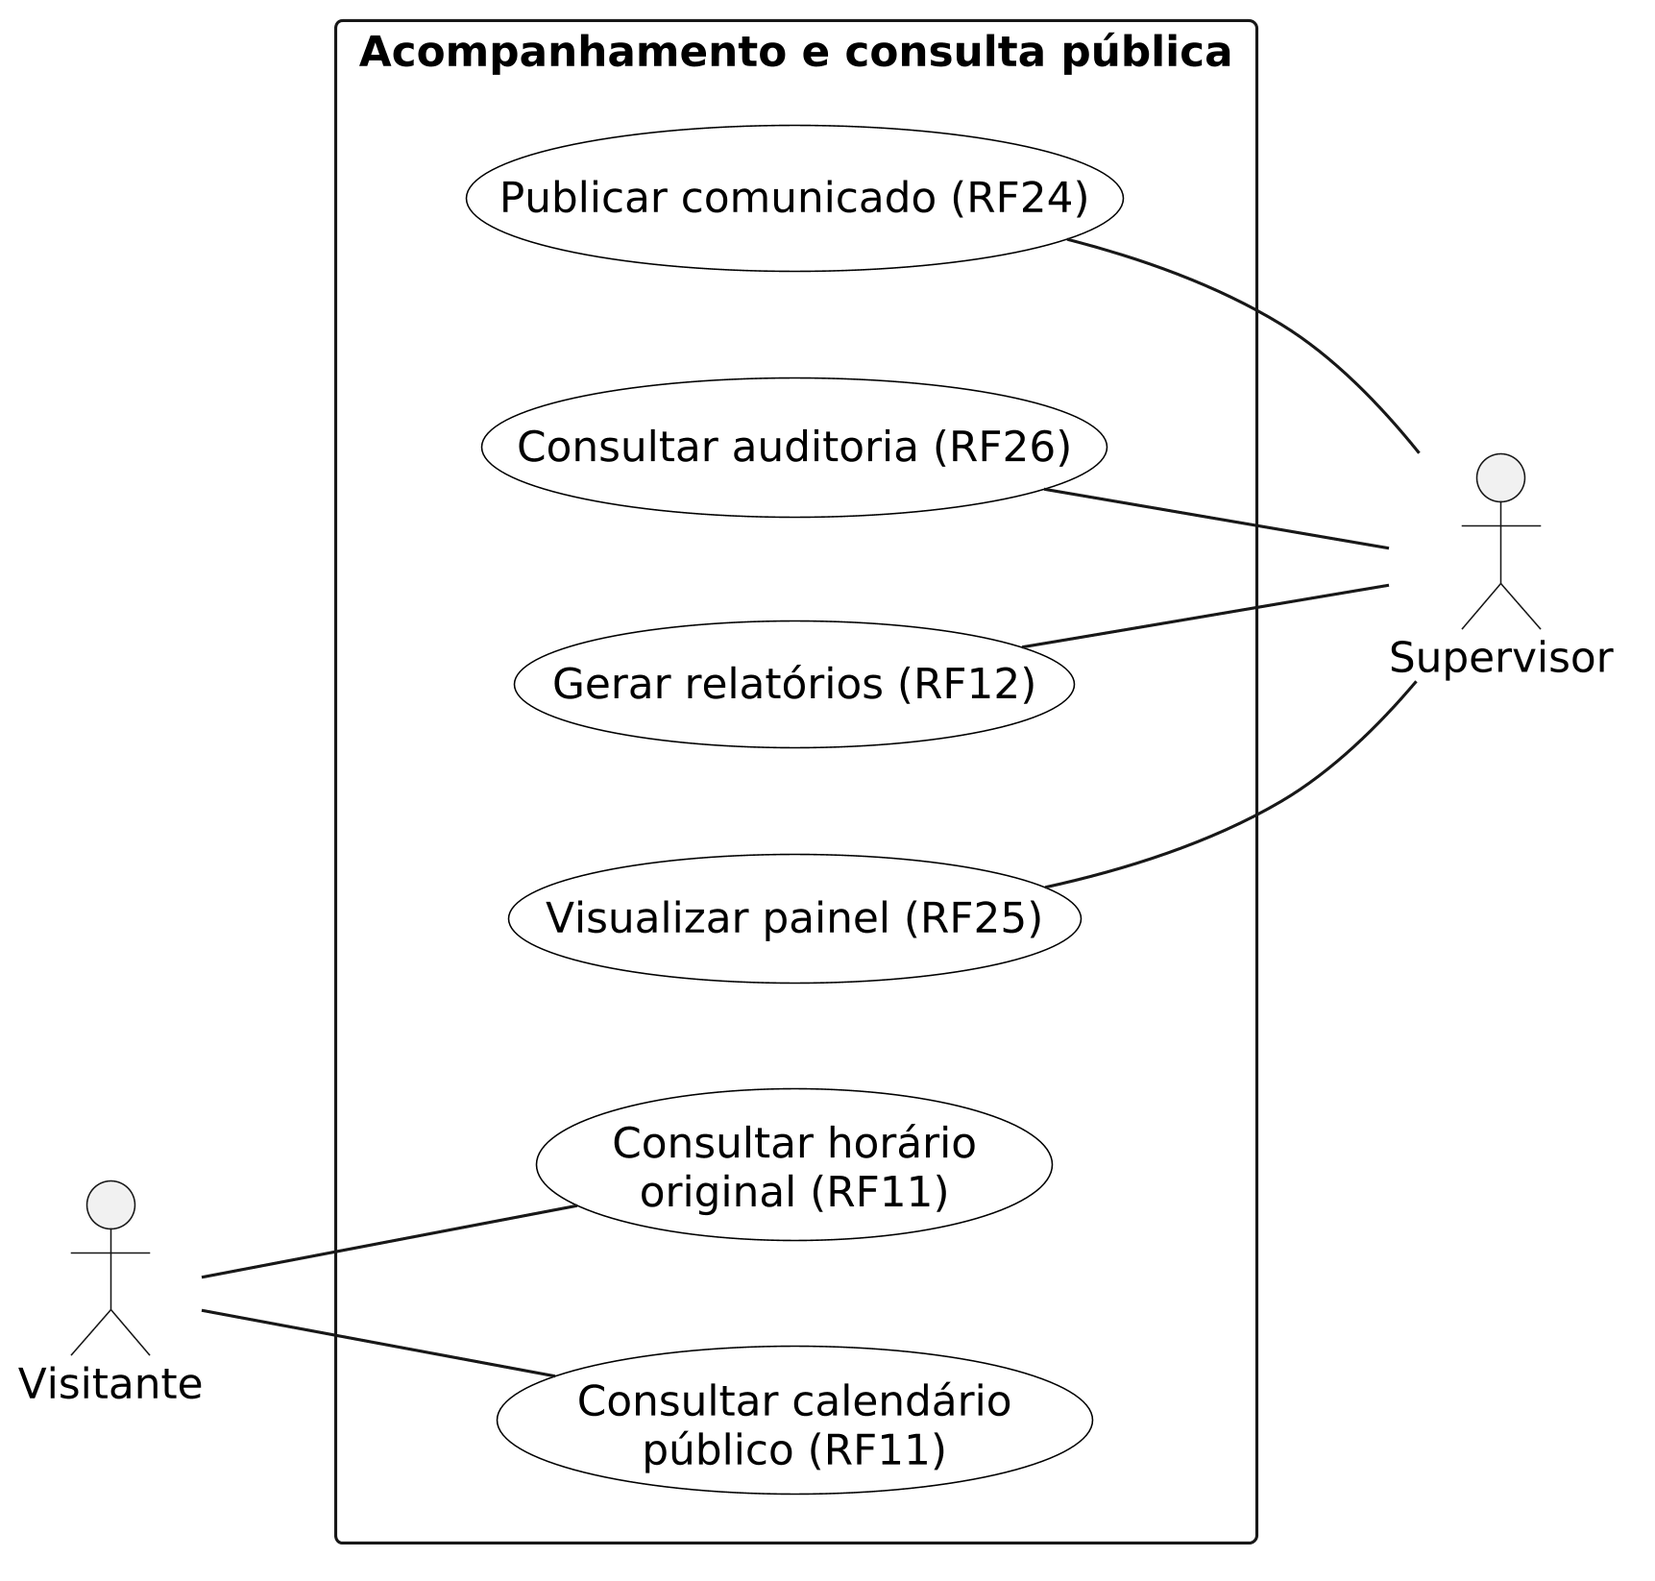
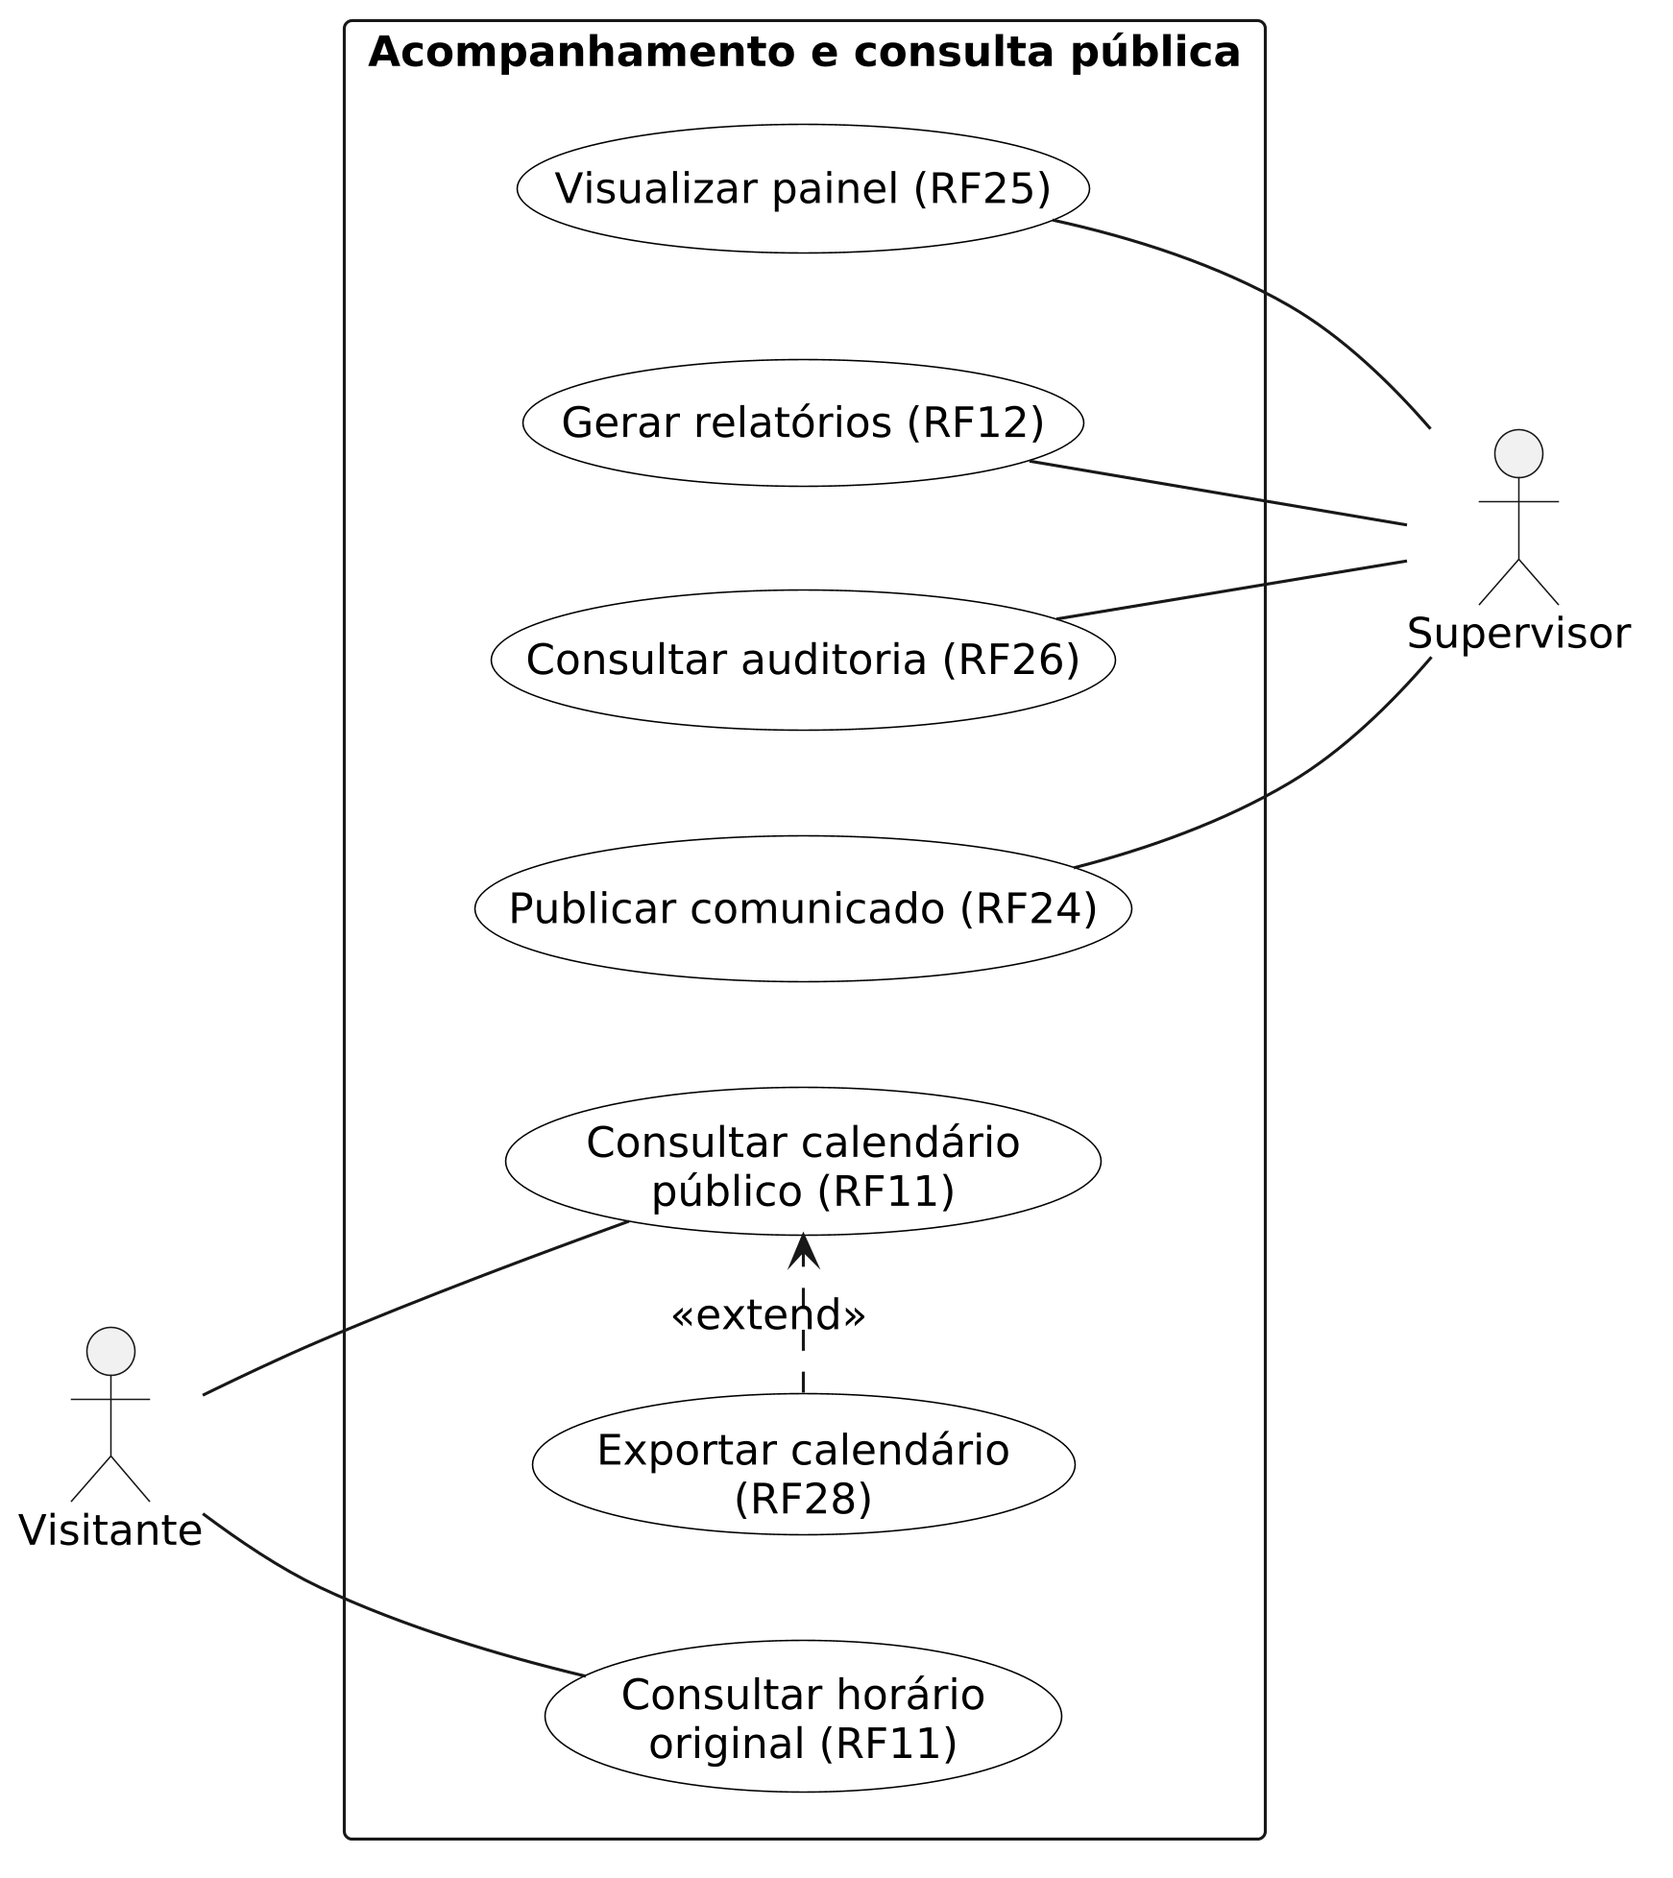
docs: documenta a exportacao do calendario publico
- acrescenta o RF28 e o caso de uso Exportar calendario, que estende
  Consultar calendario publico
- descreve o caso de uso no Apendice A e inclui o RF28 no plano de testes
- documenta a rota .ics na funcionalidade do calendario publico

diff --git a/TCC/main.tex b/TCC/main.tex
@@ -470,7 +470,7 @@ A segunda etapa foi o levantamento e a análise de requisitos. \citeonline{press
 
 O ponto de partida da especificação foi o principal gargalo identificado no diagnóstico: o cadastro manual dos horários ocupados a cada semestre. Em vez de exigir esse cadastro sala por sala, o sistema deverá importar as planilhas institucionais de horários já produzidas pelo setor responsável pela elaboração da grade, identificando automaticamente os horários ocupados pelas aulas regulares e marcando-os como indisponíveis para reserva. Com isso, o trabalho repetido a cada semestre passa a ser uma operação de importação realizada pelo administrador. Como o ensalamento pode sofrer alterações ao longo do semestre, por remanejamento de turmas, substituição de docentes, atividades extraordinárias ou ajustes pontuais na grade, o administrador poderá reimportar a planilha atualizada ou ajustar as aulas no próprio sistema, como descrito a seguir, mantendo a base de disponibilidade consistente até o fim do período letivo. O sistema não consultará sistemas externos em tempo real: a ocupação institucional será atualizada mediante ação administrativa, por importação ou edição, o que preserva a autonomia da aplicação em relação à infraestrutura de horários do campus e evita a dependência de integrações automáticas com sistemas de terceiros.
 
-Além de usar a grade importada para bloquear os horários ocupados, o sistema também a exibirá, de forma semelhante ao sistema de horários utilizado pelo campus, que apresenta na web a grade montada na planilha pelos servidores do setor responsável. Na consulta pública, sem autenticação, será possível visualizar os horários por sala, por docente, por curso ou por turma, em duas formas: o horário original, que reproduz a semana típica tal como foi importada da planilha, e um calendário por data, que incorpora as alterações feitas ao longo do semestre, as aulas canceladas e as reservas aprovadas. Na área autenticada, o administrador poderá manter essa grade diretamente no sistema: cancelar a ocorrência de uma aula em uma data, alterar o dia, o horário, a sala ou o docente de uma aula a partir de uma data, cadastrar uma nova aula recorrente e encerrar uma aula que deixou de ocorrer. Desse modo, o sistema já oferece as funcionalidades necessárias para que, depois da importação inicial do semestre, a consulta e a manutenção da alocação das salas sejam feitas nele próprio, sem depender da planilha nem do sistema que a exibe. A adoção dessas funcionalidades como forma oficial de gerenciar a alocação das salas depende de decisão da direção do campus. A montagem da grade de cada semestre continua sendo feita pelos servidores do setor responsável, e o sistema não se propõe a gerar os horários automaticamente.
+Além de usar a grade importada para bloquear os horários ocupados, o sistema também a exibirá, de forma semelhante ao sistema de horários utilizado pelo campus, que apresenta na web a grade montada na planilha pelos servidores do setor responsável. Na consulta pública, sem autenticação, será possível visualizar os horários por sala, por docente, por curso ou por turma, em duas formas: o horário original, que reproduz a semana típica tal como foi importada da planilha, e um calendário por data, que incorpora as alterações feitas ao longo do semestre, as aulas canceladas e as reservas aprovadas. O calendário por data poderá ainda ser baixado em um arquivo no formato iCalendar (.ics), aceito pelos principais aplicativos de agenda, como o Google Agenda: o aluno que filtra pela própria turma ou o docente que filtra pelo próprio nome leva para a sua agenda pessoal todas as aulas do semestre, sem precisar consultar o sistema a cada dia. Na área autenticada, o administrador poderá manter essa grade diretamente no sistema: cancelar a ocorrência de uma aula em uma data, alterar o dia, o horário, a sala ou o docente de uma aula a partir de uma data, cadastrar uma nova aula recorrente e encerrar uma aula que deixou de ocorrer. Desse modo, o sistema já oferece as funcionalidades necessárias para que, depois da importação inicial do semestre, a consulta e a manutenção da alocação das salas sejam feitas nele próprio, sem depender da planilha nem do sistema que a exibe. A adoção dessas funcionalidades como forma oficial de gerenciar a alocação das salas depende de decisão da direção do campus. A montagem da grade de cada semestre continua sendo feita pelos servidores do setor responsável, e o sistema não se propõe a gerar os horários automaticamente.
 
 Os requisitos funcionais descrevem o que o sistema deve fazer, ou seja, as funções e os serviços que ele precisa oferecer a cada perfil de usuário \cite{sommerville2018}. Eles foram especificados considerando os papéis definidos na Seção~\ref{sec:rbac} e o acesso público de consulta, e refinados nas interações com a Direção de Ensino realizadas ao longo da pesquisa. Ao administrador cabem as funções de gestão: cadastro e manutenção dos espaços físicos, dos usuários, dos perfis de acesso e dos cursos, disciplinas e turmas; importação da planilha de horários e manutenção das aulas ao longo do semestre; análise das solicitações de reserva; publicação de comunicados; e acompanhamento do uso dos espaços por meio do painel, dos relatórios e da auditoria. O docente consulta a disponibilidade dos espaços, submete solicitações de reserva, acompanha a própria agenda e é notificado sobre o resultado de cada solicitação. As necessidades de comunicação automática e de transparência levantadas no diagnóstico deram origem, respectivamente, às notificações no próprio sistema e à consulta pública dos horários. Os requisitos funcionais abrangem os seguintes módulos: gestão de usuários e controle de acesso; espaços físicos; ensalamento, com a importação da planilha e a manutenção das aulas; cursos, disciplinas e turmas; agendamento e reservas; notificações; consulta pública; e painel, relatórios e auditoria.
 
@@ -512,7 +512,8 @@ Para sistematizar a especificação, os requisitos foram consolidados em forma t
 		RF24 & Publicar comunicados para todos os usuários, para os usuários de um perfil ou para usuários escolhidos \\
 		RF25 & Exibir painel administrativo com as solicitações pendentes, a ocupação dos espaços e as pendências da grade, como aulas sem espaço ou sem docente, conflitos de docente e choques entre aulas e reservas \\
 		RF26 & Registrar em auditoria as ações realizadas no sistema e permitir a sua consulta com filtros \\
-		RF27 & Configurar o servidor de envio de e-mails pela interface do sistema \\ \hline
+		RF27 & Configurar o servidor de envio de e-mails pela interface do sistema \\
+		RF28 & Exportar o calendário público do semestre, com os filtros escolhidos, em arquivo no formato iCalendar (.ics), para importação em aplicativos de agenda \\ \hline
 \end{longtable}
 
 \begin{table}[htbp]
@@ -608,7 +609,7 @@ A Figura~\ref{fig:uc_agenda} apresenta a Agenda, dividida entre a solicitação 
     \label{fig:uc_agenda}
 \end{figure}
 
-Por fim, a Figura~\ref{fig:uc_acompanhamento} apresenta a consulta pública, acessível ao Visitante sem autenticação, e os casos de uso de acompanhamento da gestão, atribuídos ao Supervisor. As notificações (RF09 e RF10) não aparecem como casos de uso próprios porque são geradas pelo sistema em decorrência da solicitação e da análise das reservas; para o usuário, elas se manifestam no caso de uso Consultar notificações.
+Por fim, a Figura~\ref{fig:uc_acompanhamento} apresenta a consulta pública, acessível ao Visitante sem autenticação, e os casos de uso de acompanhamento da gestão, atribuídos ao Supervisor. O caso de uso Exportar calendário estende Consultar calendário público, pois é um passo opcional, oferecido depois que o Visitante escolhe os filtros. Não há um ator próprio para o aluno nem para o docente nessa exportação: ambos atuam como Visitante, e o que distingue o resultado é o filtro escolhido, a turma ou o nome do docente. As notificações (RF09 e RF10) não aparecem como casos de uso próprios porque são geradas pelo sistema em decorrência da solicitação e da análise das reservas; para o usuário, elas se manifestam no caso de uso Consultar notificações.
 
 \begin{figure}[htbp]
     \centering
@@ -795,6 +796,7 @@ A Tabela~\ref{tab:verificacao} relaciona os requisitos especificados às verific
 		RF07, RF08, RF21 & Aprovação, rejeição, sugestão de alternativa e cancelamento de reservas, conferindo a mudança de situação da solicitação e a liberação do horário após rejeição ou cancelamento \\
 		RF09, RF10, RF24 & Geração das notificações aos responsáveis pela análise e ao solicitante a cada mudança de situação, e publicação de comunicados, conferindo os destinatários alcançados \\
 		RF11 & Acesso às rotas públicas sem autenticação, conferindo que a resposta não expõe endereços de e-mail nem a descrição das reservas \\
+		RF28 & Exportação do calendário filtrado por turma, conferindo que o arquivo traz apenas as aulas da turma, sem as ocorrências canceladas, e que a exportação sem filtro é recusada \\
 		RF12, RF25 & Geração dos relatórios e dos indicadores do painel a partir de um conjunto conhecido de aulas e reservas, comparando os valores obtidos com os esperados \\
 		RF13 a RF16 & Cadastro, alteração e encerramento de recorrências e cancelamento de ocorrências, conferindo as ocorrências antes e depois da data informada \\
 		RF20, RF27 & Envio do link de definição de senha e da recuperação de senha, conferido no mecanismo de e-mail de testes, e validação da configuração do servidor de envio \\
@@ -956,6 +958,22 @@ Este apêndice reúne as descrições expandidas dos casos de uso centrais do si
 		\textbf{Fluxo principal} & 1.~O Superadmin abre a lista de perfis e escolhe criar um perfil.\newline 2.~O Superadmin informa o código, o nome e a descrição do perfil.\newline 3.~O sistema valida os dados e grava o perfil, ainda sem permissões.\newline 4.~O sistema exibe as permissões disponíveis, agrupadas por módulo.\newline 5.~O Superadmin seleciona as permissões do perfil.\newline 6.~O sistema grava as permissões e registra a operação na auditoria. \\ \hline
 		\textbf{Fluxos alternativos} & 1a.~O Superadmin escolhe excluir um perfil que tem usuários vinculados: o sistema recusa a exclusão.\newline 3a.~O código ou o nome já existe, ou o código não segue o formato exigido: o sistema informa o erro e retorna ao passo 2.\newline 5a.~Ao editar um perfil existente, a retirada de permissões deixaria o sistema sem nenhum usuário ativo capaz de gerenciar usuários: o sistema recusa a alteração. \\ \hline
 		\textbf{Pós-condições} & O perfil está cadastrado com as permissões escolhidas; as permissões reservadas ao superadministrador não podem ser concedidas a nenhum perfil. \\ \hline
+	\multicolumn{2}{@{}l}{\footnotesize Fonte: Elaborado pelo autor (2026).}
+\end{longtable}
+
+\needspace{0.5\textheight}
+\begin{longtable}{@{}>{\raggedright\arraybackslash}p{3.1cm}>{\raggedright\arraybackslash}p{10.7cm}@{}}
+	\caption{Descrição do caso de uso Exportar calendário}\label{tab:uc_exportar} \\
+	\hline
+	\endfirsthead
+	\hline
+	\endhead
+		\textbf{Requisitos} & RF11, RF28 \\ \hline
+		\textbf{Ator principal} & Visitante, por exemplo um aluno ou um docente \\ \hline
+		\textbf{Pré-condições} & O semestre escolhido tem horário publicado e período definido. \\ \hline
+		\textbf{Fluxo principal} & 1.~O Visitante acessa o calendário público.\newline 2.~O Visitante escolhe o semestre e uma sala, um docente ou um curso e, se quiser, a turma do curso.\newline 3.~O sistema exibe o calendário com os filtros escolhidos e a opção de baixá-lo.\newline 4.~O Visitante escolhe baixar o calendário.\newline 5.~O sistema gera um arquivo no formato iCalendar com as ocorrências das aulas de todo o semestre que atendem aos filtros, com disciplina, horário, sala, turma e docentes, e o entrega para download.\newline 6.~O Visitante importa o arquivo no seu aplicativo de agenda. \\ \hline
+		\textbf{Fluxos alternativos} & 2a.~Nenhuma sala, docente ou curso foi escolhido: a opção de baixar não é oferecida.\newline 3a.~O semestre não tem período definido: o calendário mostra a semana típica, e a opção de baixar não é oferecida.\newline 5a.~O filtro é por sala ou por docente: o arquivo inclui também as reservas aprovadas, sem a descrição nem o e-mail do solicitante. \\ \hline
+		\textbf{Pós-condições} & O Visitante tem um arquivo com as aulas do semestre que escolheu, sem as ocorrências canceladas até o momento da geração; o sistema não registra a operação na auditoria, por ser uma consulta pública. \\ \hline
 	\multicolumn{2}{@{}l}{\footnotesize Fonte: Elaborado pelo autor (2026).}
 \end{longtable}
 \end{document}

diff --git a/implementacao-tcc/docs/funcionalidades/calendario-publico.md b/implementacao-tcc/docs/funcionalidades/calendario-publico.md
@@ -1,11 +1,12 @@
 # Calendário público
 
-Consulta sem login da ocupação dos espaços. Implementação: `schedule/public.py` (consulta e montagem), `schedule/public_views.py` (views), `schedule/public_cache.py` (cache) e `ui/layouts/public.html`. Regras em [regras de negócio](../regras/regras-de-negocio.md#calendário-público).
+Consulta sem login da ocupação dos espaços. Implementação: `schedule/public.py` (consulta e montagem), `schedule/public_views.py` (views), `schedule/ics.py` (exportação .ics), `schedule/public_cache.py` (cache) e `ui/layouts/public.html`. Regras em [regras de negócio](../regras/regras-de-negocio.md#calendário-público).
 
 | Tela | Rota | Nome | Conteúdo |
 |---|---|---|---|
 | Calendário | `/` | `public_calendar` | Ocorrências datadas do ensalamento, sem as canceladas, e os agendamentos aprovados |
 | Horário original | `/horario-original/` | `public_original_timetable` | Semana típica só com as alocações importadas, sem versões alteradas, cancelamentos e agendamentos |
+| Exportação | `/calendario.ics` | `public_calendar_ics` | Arquivo iCalendar do semestre inteiro com os filtros da tela |
 
 As duas telas alternam entre si mantendo os filtros (exceto as datas).
 
@@ -17,6 +18,15 @@ As duas telas alternam entre si mantendo os filtros (exceto as datas).
 - Semestre sem período: mostra a semana típica com aviso.
 - Agendamentos entram só na consulta por sala ou por docente, não na consulta por curso ou nível.
 - A célula vazia é "disponível" na consulta só por sala e "sem aula" nas demais.
+
+## Exportação (.ics)
+
+- Ícone de download no cabeçalho da Grade, ao lado do seletor de turma. Só aparece com sala, docente ou curso escolhido e com o período do semestre definido.
+- O link leva os filtros da tela, menos as datas: o arquivo cobre o semestre inteiro.
+- Um `VEVENT` por ocorrência, com `TZID=America/Sao_Paulo`: disciplina no título, sala no local, turma e docentes na descrição. Ocorrências canceladas ficam de fora.
+- Agendamentos aprovados entram nas mesmas condições da tela (filtro por sala ou docente), sem descrição e sem e-mail.
+- Sem filtro principal ou sem período: 404. Só GET e HEAD. Não usa o cache público.
+- Uso típico: o aluno filtra pela turma e o docente pelo próprio nome, e cada um importa o arquivo no Google Agenda ou em outro aplicativo. O arquivo é uma cópia: mudanças posteriores exigem baixar de novo, ou assinar a URL no aplicativo de agenda.
 
 ## O que a página expõe
 
@@ -54,6 +64,6 @@ O alias `public` de `CACHES` aponta para o Redis (`DJANGO_REDIS_URL`). Sem a var
 
 ## Testes
 
-`schedule/tests/test_public_calendar.py`, `test_public_cache.py`.
+`schedule/tests/test_public_calendar.py`, `test_public_cache.py`, `test_public_ics.py`.
 
 O que cada classe garante está no catálogo de testes do app [`schedule`](../desenvolvimento/testes/schedule.md#calendário-público).
